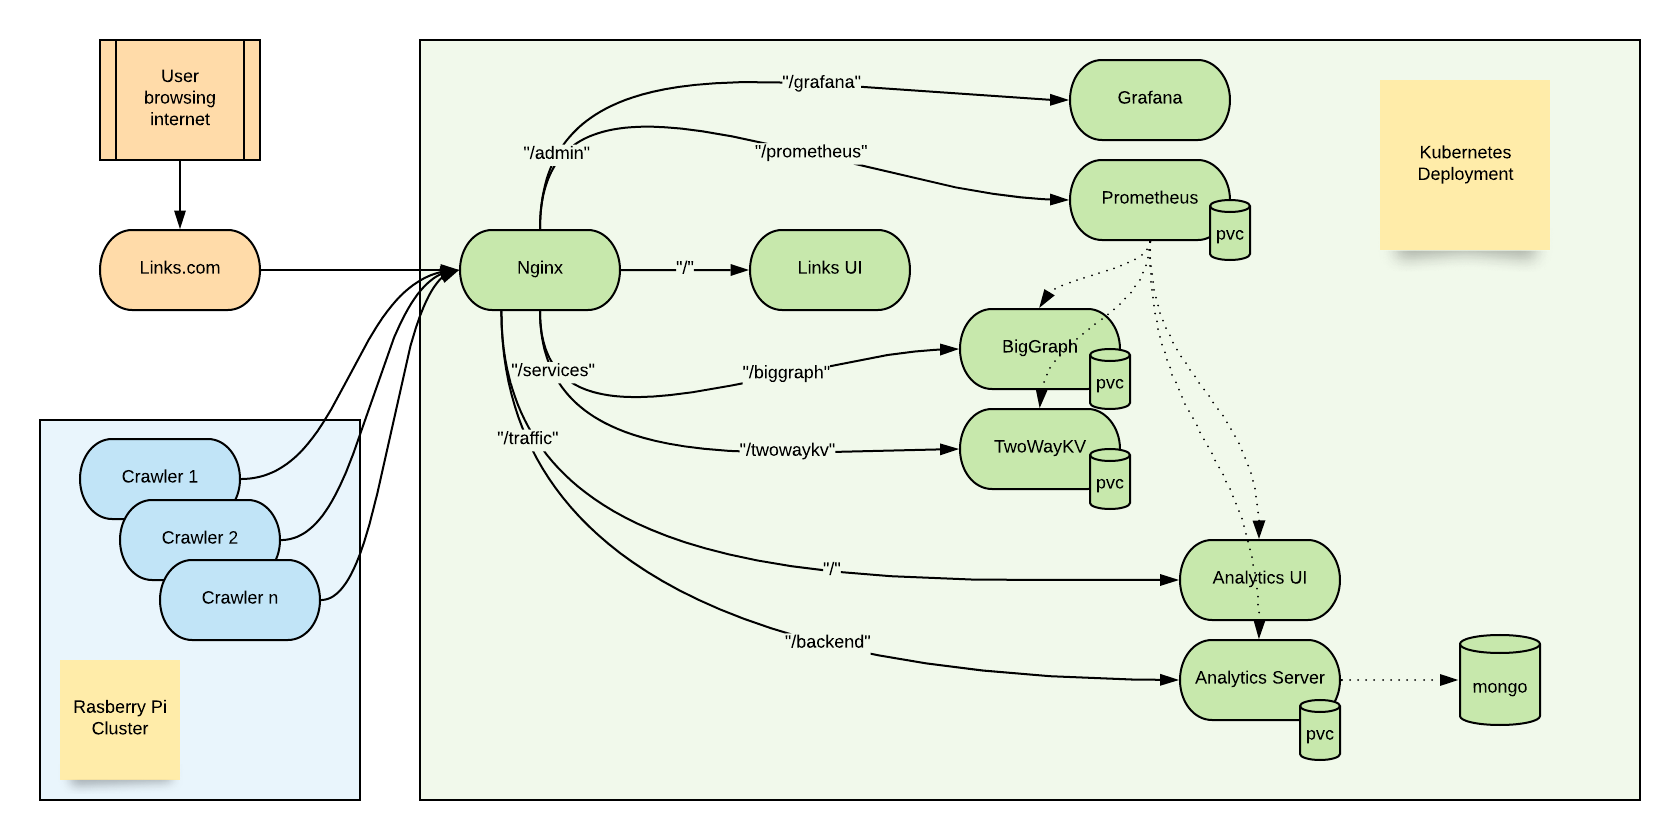
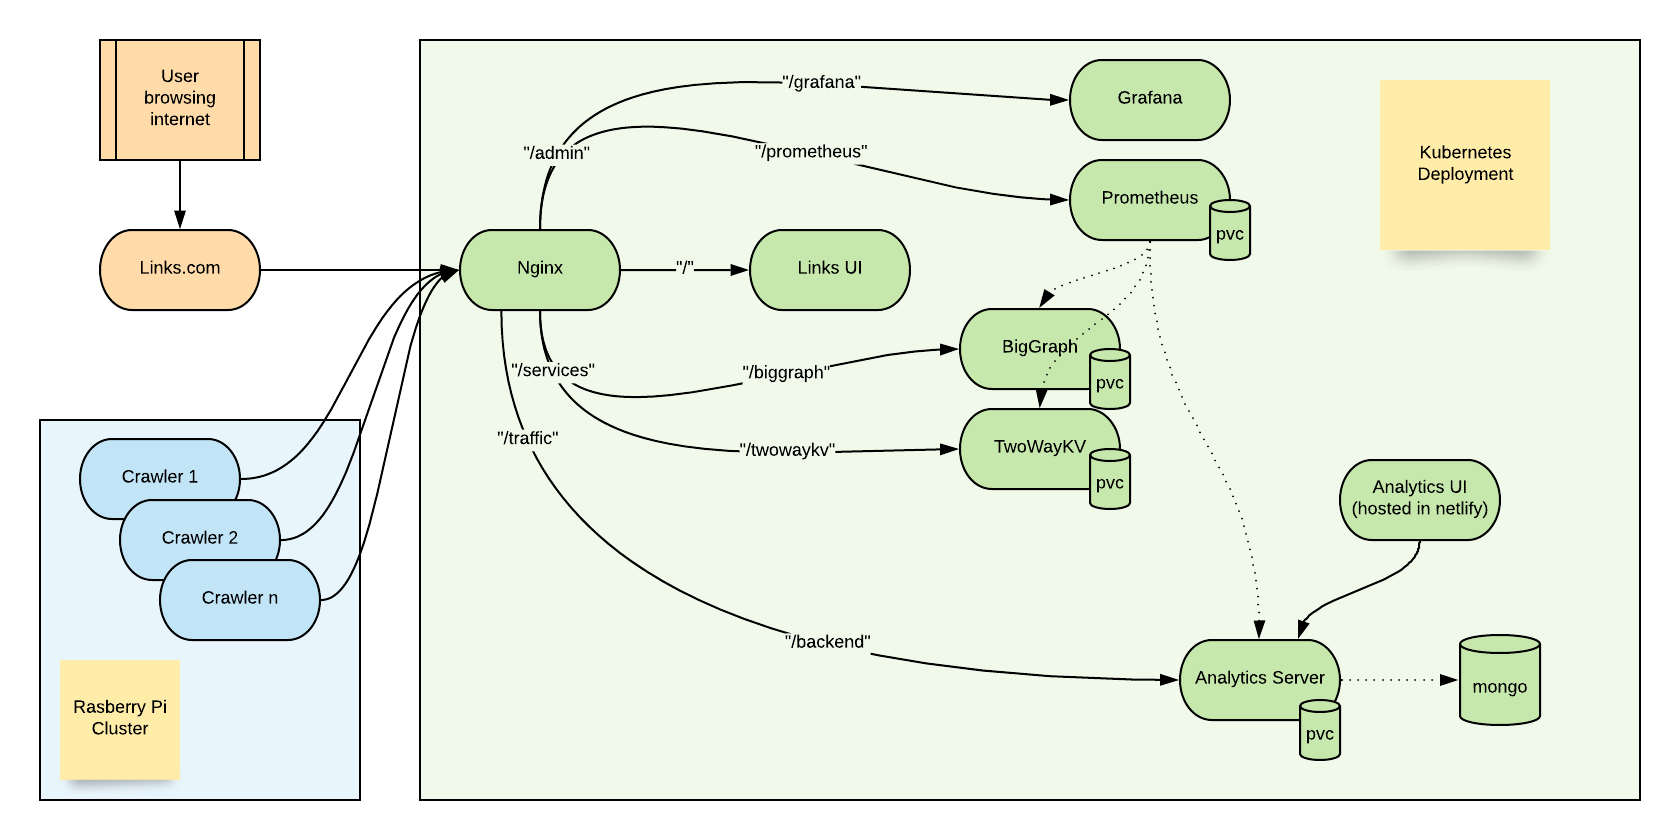
Website analytics (#25)
* added analytics to project

* able to serve up prometheus

* grafana is working

* removed conf

* zip is correctly formatted

Changed region(s): [[0.5262, 0.5262, 0.8976, 0.7429], [0.4333, 0.65, 0.4952, 0.681], [0.3714, 0.619, 0.4024, 0.65]]

diff --git a/src/api/wiki.js b/src/api/wiki.js
@@ -26,7 +26,7 @@ export function getDescription(s) {
 // gets icon and description by trying to guess title
 export function _queryByTitle(s) {
   // get extracts
-  let url = process.env.REACT_APP_WIKIMETA_ENDPOINT;
+  let url = "/services/wiki/w/api.php";
   url += `?action=query`;
   url += `&format=json`;
   url += `&prop=extracts`;
@@ -44,7 +44,7 @@ export function _queryByTitle(s) {
       if (!pageId || pageId === -1) return _errOut(s, "no page found");
       let extract = r.data.query.pages[pageId].extract;
       // now get images
-      url = process.env.REACT_APP_WIKIMETA_ENDPOINT;
+      url = "/services/wiki/w/api.php";
       url += `?action=query`;
       url += `&prop=pageimages`;
       url += `&format=json`;
@@ -66,7 +66,7 @@ export function _queryByTitle(s) {
 // result in an opensearch
 export function _opensearch(s) {
   // get extracts
-  let url = process.env.REACT_APP_WIKIMETA_ENDPOINT;
+  let url = "/services/wiki/w/api.php";
   url += "?action=opensearch";
   url += "&limit=1";
   url += "&namespace=0";
@@ -80,7 +80,7 @@ export function _opensearch(s) {
       if (!pageTitle) return _errOut(s, "no page found");
       let extract = r.data[2];
       // now get images
-      url = process.env.REACT_APP_WIKIMETA_ENDPOINT;
+      url = "/services/wiki/w/api.php";
       url += `?action=query`;
       url += `&prop=pageimages`;
       url += `&format=json`;

diff --git a/src/api/analytics.js b/src/api/analytics.js
@@ -1,0 +1,42 @@
+import axios from "axios";
+/**
+ * gets user's ip address and then posts go website analytics endpoint
+ * @return: Promise
+ * {
+ *   success : bool,
+ *   data : [{key, value}],
+ *   error : string
+ * }
+ **/
+export function postUserVisit(ids) {
+  // first get ip address of user
+  let geoUrl = encodeURI(`/analytics/api/geoIpServer/check?access_key=7eca814a6de384aab338e110c57fef37`);
+  // add in href, if exists
+
+  return axios
+    .get(geoUrl)
+    .then(res => {
+      if (res.data) {
+        // add in referrer code
+        res.data.href = new URLSearchParams(window.location.search).get("href");
+        // small cleanup on attributes
+        res.data.zip_code = res.data.zip;
+      }
+      // now post this data to the backend
+      let url = encodeURI(`/analytics/server/visits`);
+      return axios
+        .post(url, res.data)
+        .then(r => ({
+          success: true,
+          data: r.data
+        }))
+        .catch(e => ({
+          success: false,
+          error: "could not post json to analytics backend: " + e.message
+        }));
+    })
+    .catch(e => ({
+      success: false,
+      error: "could not get user IP address: " + e.message
+    }));
+}

diff --git a/src/api/twowaykv.js b/src/api/twowaykv.js
@@ -11,9 +11,7 @@ import axios from "axios";
  *}
  **/
 export function random(n) {
-  let url = encodeURI(
-    `${process.env.REACT_APP_TWOWAYKV_ENDPOINT}/random?n=${n}`
-  );
+  let url = encodeURI(`/services/twowaykv/random?n=${n}`);
   return axios
     .get(url)
     .then(r => ({
@@ -32,9 +30,7 @@ export function random(n) {
  * @return same response type as above
  **/
 export function entriesFromValues(ids) {
-  let url = encodeURI(
-    `${process.env.REACT_APP_TWOWAYKV_ENDPOINT}/entriesFromValues`
-  );
+  let url = encodeURI(`/services/twowaykv/entriesFromValues`);
   return axios
     .post(url, ids)
     .then(r => ({
@@ -53,9 +49,7 @@ export function entriesFromValues(ids) {
  * @return same response type as above
  **/
 export function search(s) {
-  let url = encodeURI(
-    `${process.env.REACT_APP_TWOWAYKV_ENDPOINT}/search?q=${s}`
-  );
+  let url = encodeURI(`/services/twowaykv/search?q=${s}`);
   return axios
     .get(url)
     .then(r => ({

diff --git a/src/actions/appState.js b/src/actions/appState.js
@@ -1,5 +1,6 @@
 import { store } from "../reducers/index";
 import { fetchAndStoreRandomStartNode } from "./graph";
+import { postUserVisit } from "../api/analytics";
 
 // updates which view the app is in
 export const UPDATE_VIEW = "UPDATE_VIEW";
@@ -35,6 +36,9 @@ export function setLanguage(language) {
 // initializes app on first load
 export function InitAapp(callback = () => {}) {
   store.dispatch(setLoading(true));
+  // send info to analytics backend
+  postUserVisit();
+
   fetchAndStoreRandomStartNode(err => {
     if (err) store.dispatch(setFatalError(err));
     store.dispatch(setLoading(false));

diff --git a/src/App.js b/src/App.js
@@ -7,12 +7,11 @@ import { store } from "./reducers/index";
 import MainView from "./containers/mainView";
 
 class App extends Component {
-
   render() {
     return (
-        <Provider store={store}>
-          <MainView/>
-        </Provider>
+      <Provider store={store}>
+        <MainView />
+      </Provider>
     );
   }
 }

diff --git a/src/api/biggraph.js b/src/api/biggraph.js
@@ -10,7 +10,7 @@ import { store } from "../reducers";
  **/
 export function getNeighbors(id) {
   let url = encodeURI(
-    `${process.env.REACT_APP_BIGGRAPH_ENDPOINT}/neighbors?node=${id}&limit=${
+    `/services/biggraph/neighbors?node=${id}&limit=${
       store.getState().graph.maxNeighbors
     }`
   );
